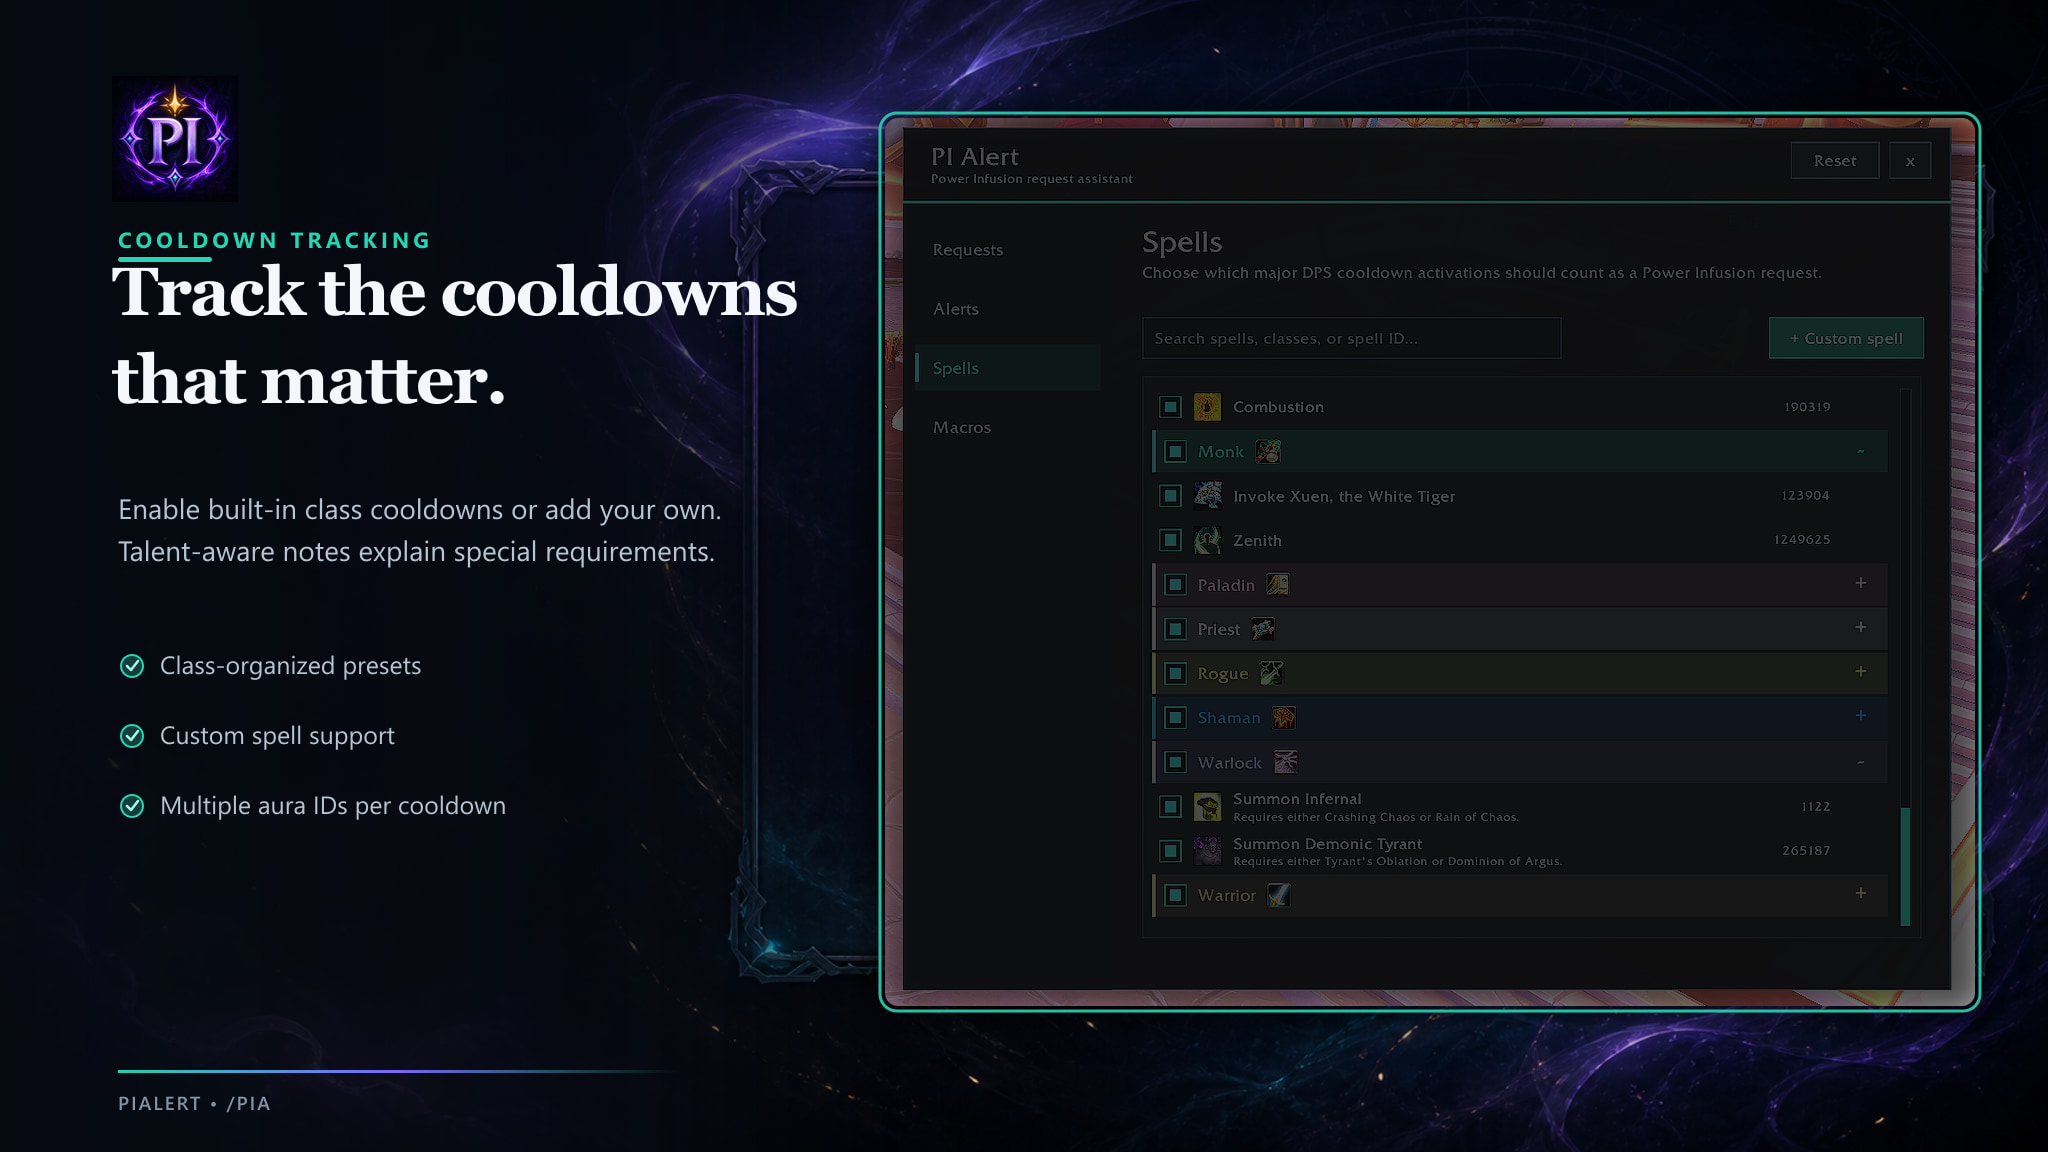
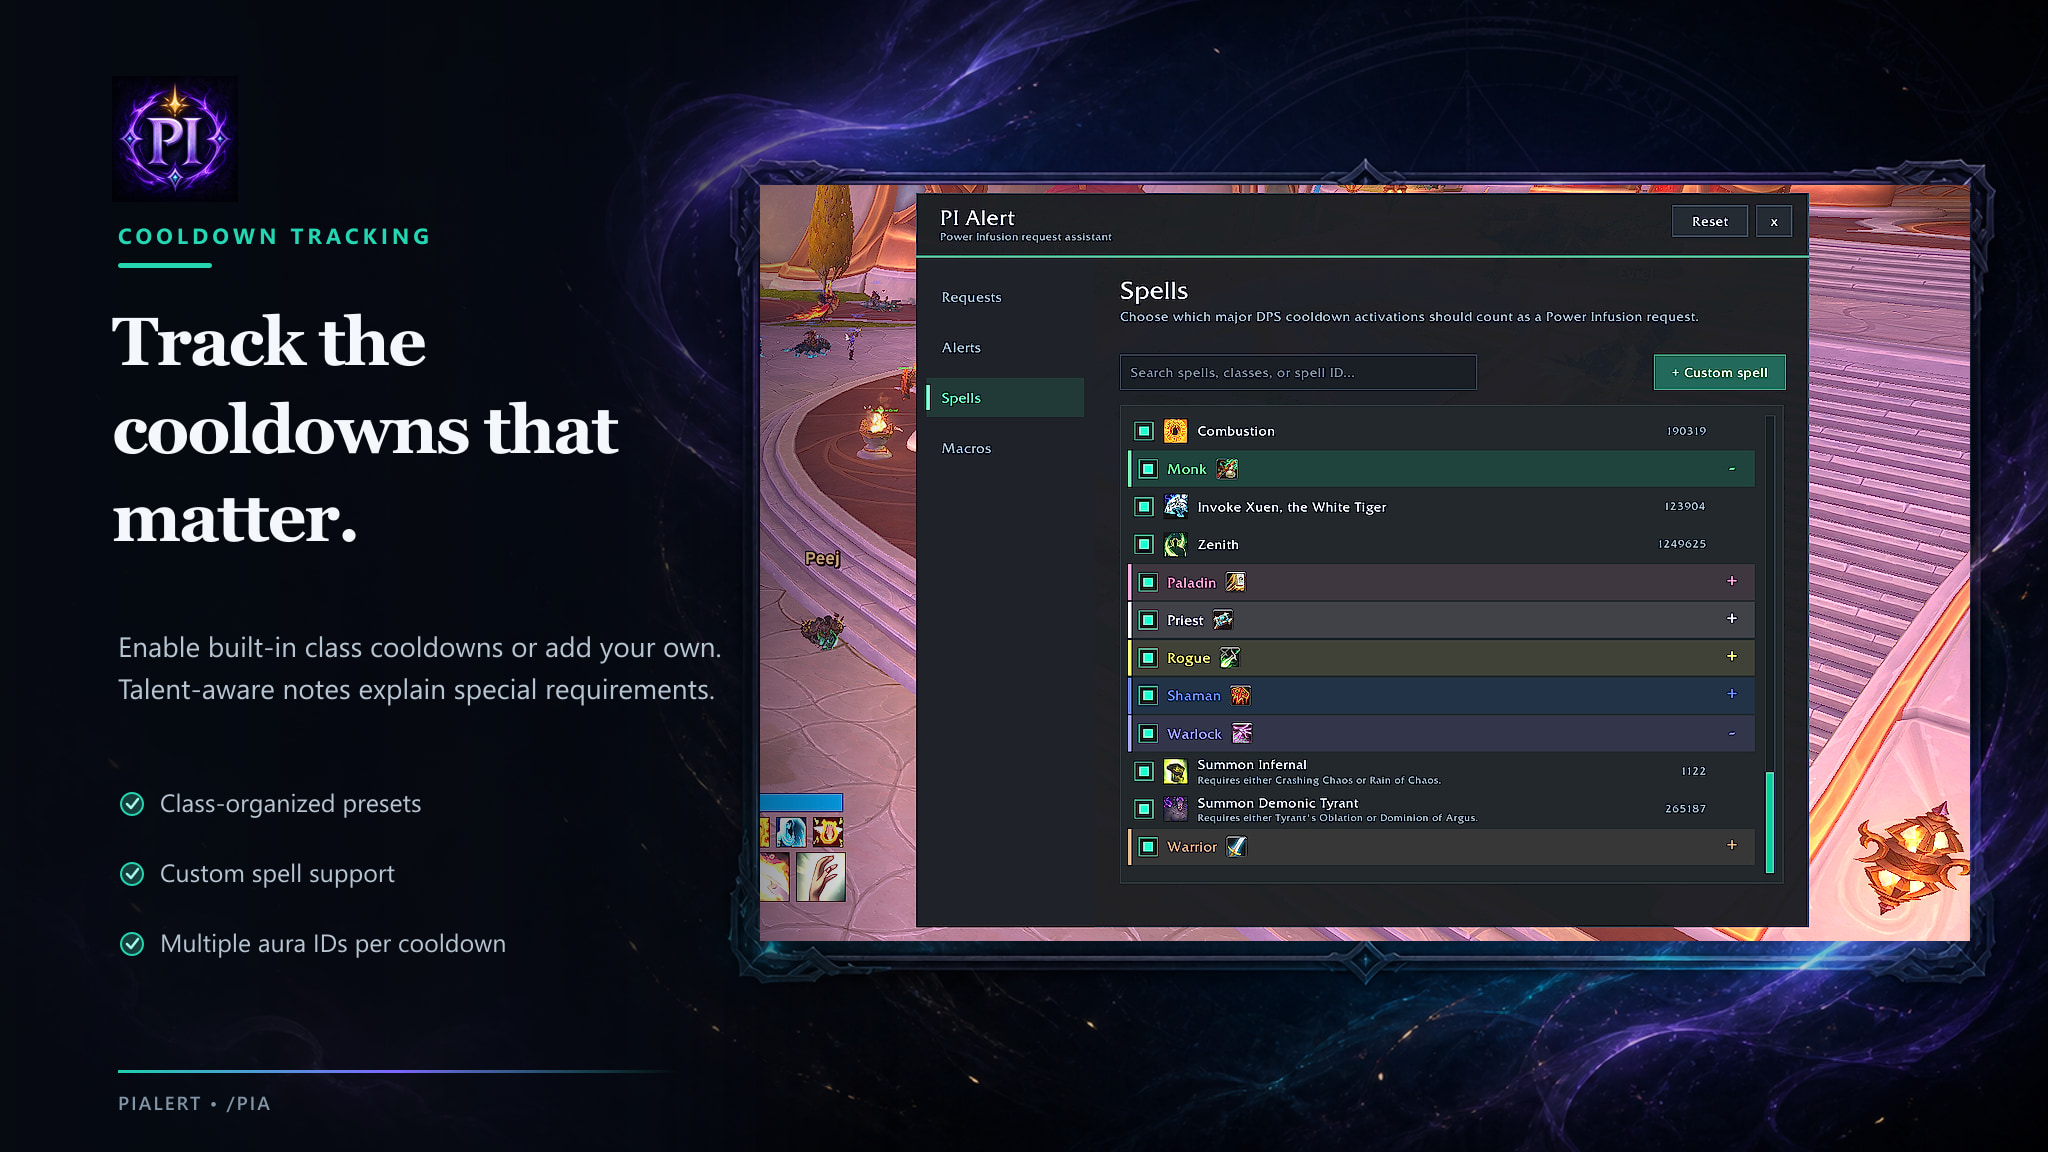
Refine CurseForge screenshot presentation
Expand every in-game crop to fill the backdrop's native frame, remove the redundant screenshot border and rounding, restore screenshot brightness and color, and increase spacing between the teal section labels and white feature headlines.

diff --git a/Branding/CurseForge/build-gallery.js b/Branding/CurseForge/build-gallery.js
@@ -24,8 +24,8 @@ const slides = [
   {
     output: "01-pialert-hero.jpg",
     source: "WoWScrnShot_082726_170152.jpg",
-    crop: { left: 1580, top: 210, width: 2080, height: 1160 },
-    shot: { x: 805, y: 205, width: 1170, height: 652 },
+    crop: { left: 1600, top: 210, width: 1856, height: 1160 },
+    shot: { x: 760, y: 185, width: 1210, height: 756 },
     eyebrow: "POWER INFUSION ASSISTANT",
     title: ["Give PI to the", "right player."],
     body: [
@@ -38,8 +38,8 @@ const slides = [
   {
     output: "02-alerts.jpg",
     source: "WoWScrnShot_082726_170024.jpg",
-    crop: { left: 2835, top: 125, width: 1160, height: 945 },
-    shot: { x: 885, y: 118, width: 1090, height: 888 },
+    crop: { left: 2659, top: 125, width: 1512, height: 945 },
+    shot: { x: 760, y: 185, width: 1210, height: 756 },
     eyebrow: "CUSTOM ALERTS",
     title: ["Never miss", "a PI request."],
     body: [
@@ -51,8 +51,8 @@ const slides = [
   {
     output: "03-requests.jpg",
     source: "WoWScrnShot_082726_170021.jpg",
-    crop: { left: 2835, top: 125, width: 1160, height: 945 },
-    shot: { x: 885, y: 118, width: 1090, height: 888 },
+    crop: { left: 2659, top: 125, width: 1512, height: 945 },
+    shot: { x: 760, y: 185, width: 1210, height: 756 },
     eyebrow: "REQUEST CONTROL",
     title: ["You decide who", "can ask for PI."],
     body: [
@@ -64,10 +64,10 @@ const slides = [
   {
     output: "04-spells.jpg",
     source: "WoWScrnShot_082726_170044.jpg",
-    crop: { left: 2835, top: 125, width: 1160, height: 945 },
-    shot: { x: 885, y: 118, width: 1090, height: 888 },
+    crop: { left: 2659, top: 125, width: 1512, height: 945 },
+    shot: { x: 760, y: 185, width: 1210, height: 756 },
     eyebrow: "COOLDOWN TRACKING",
-    title: ["Track the cooldowns", "that matter."],
+    title: ["Track the", "cooldowns that", "matter."],
     body: [
       "Enable built-in class cooldowns or add your own.",
       "Talent-aware notes explain special requirements.",
@@ -77,8 +77,8 @@ const slides = [
   {
     output: "05-macros.jpg",
     source: "WoWScrnShot_082726_170047.jpg",
-    crop: { left: 2835, top: 125, width: 1160, height: 945 },
-    shot: { x: 885, y: 118, width: 1090, height: 888 },
+    crop: { left: 2659, top: 125, width: 1512, height: 945 },
+    shot: { x: 760, y: 185, width: 1210, height: 756 },
     eyebrow: "BUILT-IN MACROS",
     title: ["One click to the", "right target."],
     body: [
@@ -131,10 +131,10 @@ function bulletSvg(labels, x, y) {
 }
 
 function overlaySvg(slide) {
-  const titleStart = 315;
+  const titleStart = 365;
   const titleGap = 88;
   const bodyStart = titleStart + slide.title.length * titleGap + 28;
-  const accentY = titleStart - 58;
+  const accentY = 263;
   const extras = slide.pills
     ? pillSvg(slide.pills, 118, bodyStart + 130)
     : bulletSvg(slide.bullets, 120, bodyStart + 155);
@@ -157,10 +157,8 @@ function overlaySvg(slide) {
         </filter>
       </defs>
       <rect x="0" y="0" width="900" height="1152" fill="url(#leftShade)"/>
-      <rect x="${slide.shot.x - 14}" y="${slide.shot.y - 14}" width="${slide.shot.width + 28}" height="${slide.shot.height + 28}" rx="24" fill="#000" opacity="0.7" filter="url(#shadow)"/>
-      <rect x="${slide.shot.x - 5}" y="${slide.shot.y - 5}" width="${slide.shot.width + 10}" height="${slide.shot.height + 10}" rx="17" fill="none" stroke="#2bd3b2" stroke-width="3" opacity="0.9"/>
       <rect x="118" y="${accentY}" width="94" height="5" rx="2.5" fill="${COLORS.teal}"/>
-      <text x="118" y="248" fill="${COLORS.teal}" font-family="Segoe UI, Arial, sans-serif" font-size="22" font-weight="700" letter-spacing="4">${escapeXml(slide.eyebrow)}</text>
+      <text x="118" y="244" fill="${COLORS.teal}" font-family="Segoe UI, Arial, sans-serif" font-size="22" font-weight="700" letter-spacing="4">${escapeXml(slide.eyebrow)}</text>
       ${textLines(slide.title, 112, titleStart, { size: slide.eyebrow === "COOLDOWN TRACKING" ? 68 : 76, gap: titleGap, weight: 650, family: "Georgia, serif", spacing: -2 })}
       ${textLines(slide.body, 118, bodyStart, { size: 28, gap: 42, weight: 400, color: COLORS.body })}
       ${extras}
@@ -171,23 +169,23 @@ function overlaySvg(slide) {
   `);
 }
 
-async function roundedScreenshot(slide) {
+async function screenshotBuffer(slide) {
   const input = path.join(SCREENSHOTS, slide.source);
   const { width, height } = slide.shot;
   const image = await sharp(input)
     .extract(slide.crop)
     .resize(width, height, { fit: "fill" })
-    .linear(1.35, 8)
-    .modulate({ brightness: 1.04, saturation: 1.02 })
+    .gamma(1.8)
+    .linear(1.08, 4)
+    .modulate({ saturation: 1.06 })
     .sharpen({ sigma: 0.8 })
     .png()
     .toBuffer();
-  const mask = Buffer.from(`<svg width="${width}" height="${height}" xmlns="http://www.w3.org/2000/svg"><rect width="${width}" height="${height}" rx="13" fill="white"/></svg>`);
-  return sharp(image).composite([{ input: mask, blend: "dest-in" }]).png().toBuffer();
+  return image;
 }
 
 async function buildSlide(slide) {
-  const screenshot = await roundedScreenshot(slide);
+  const screenshot = await screenshotBuffer(slide);
   const logo = await sharp(LOGO)
     .resize(126, 126, { fit: "cover" })
     .png()
